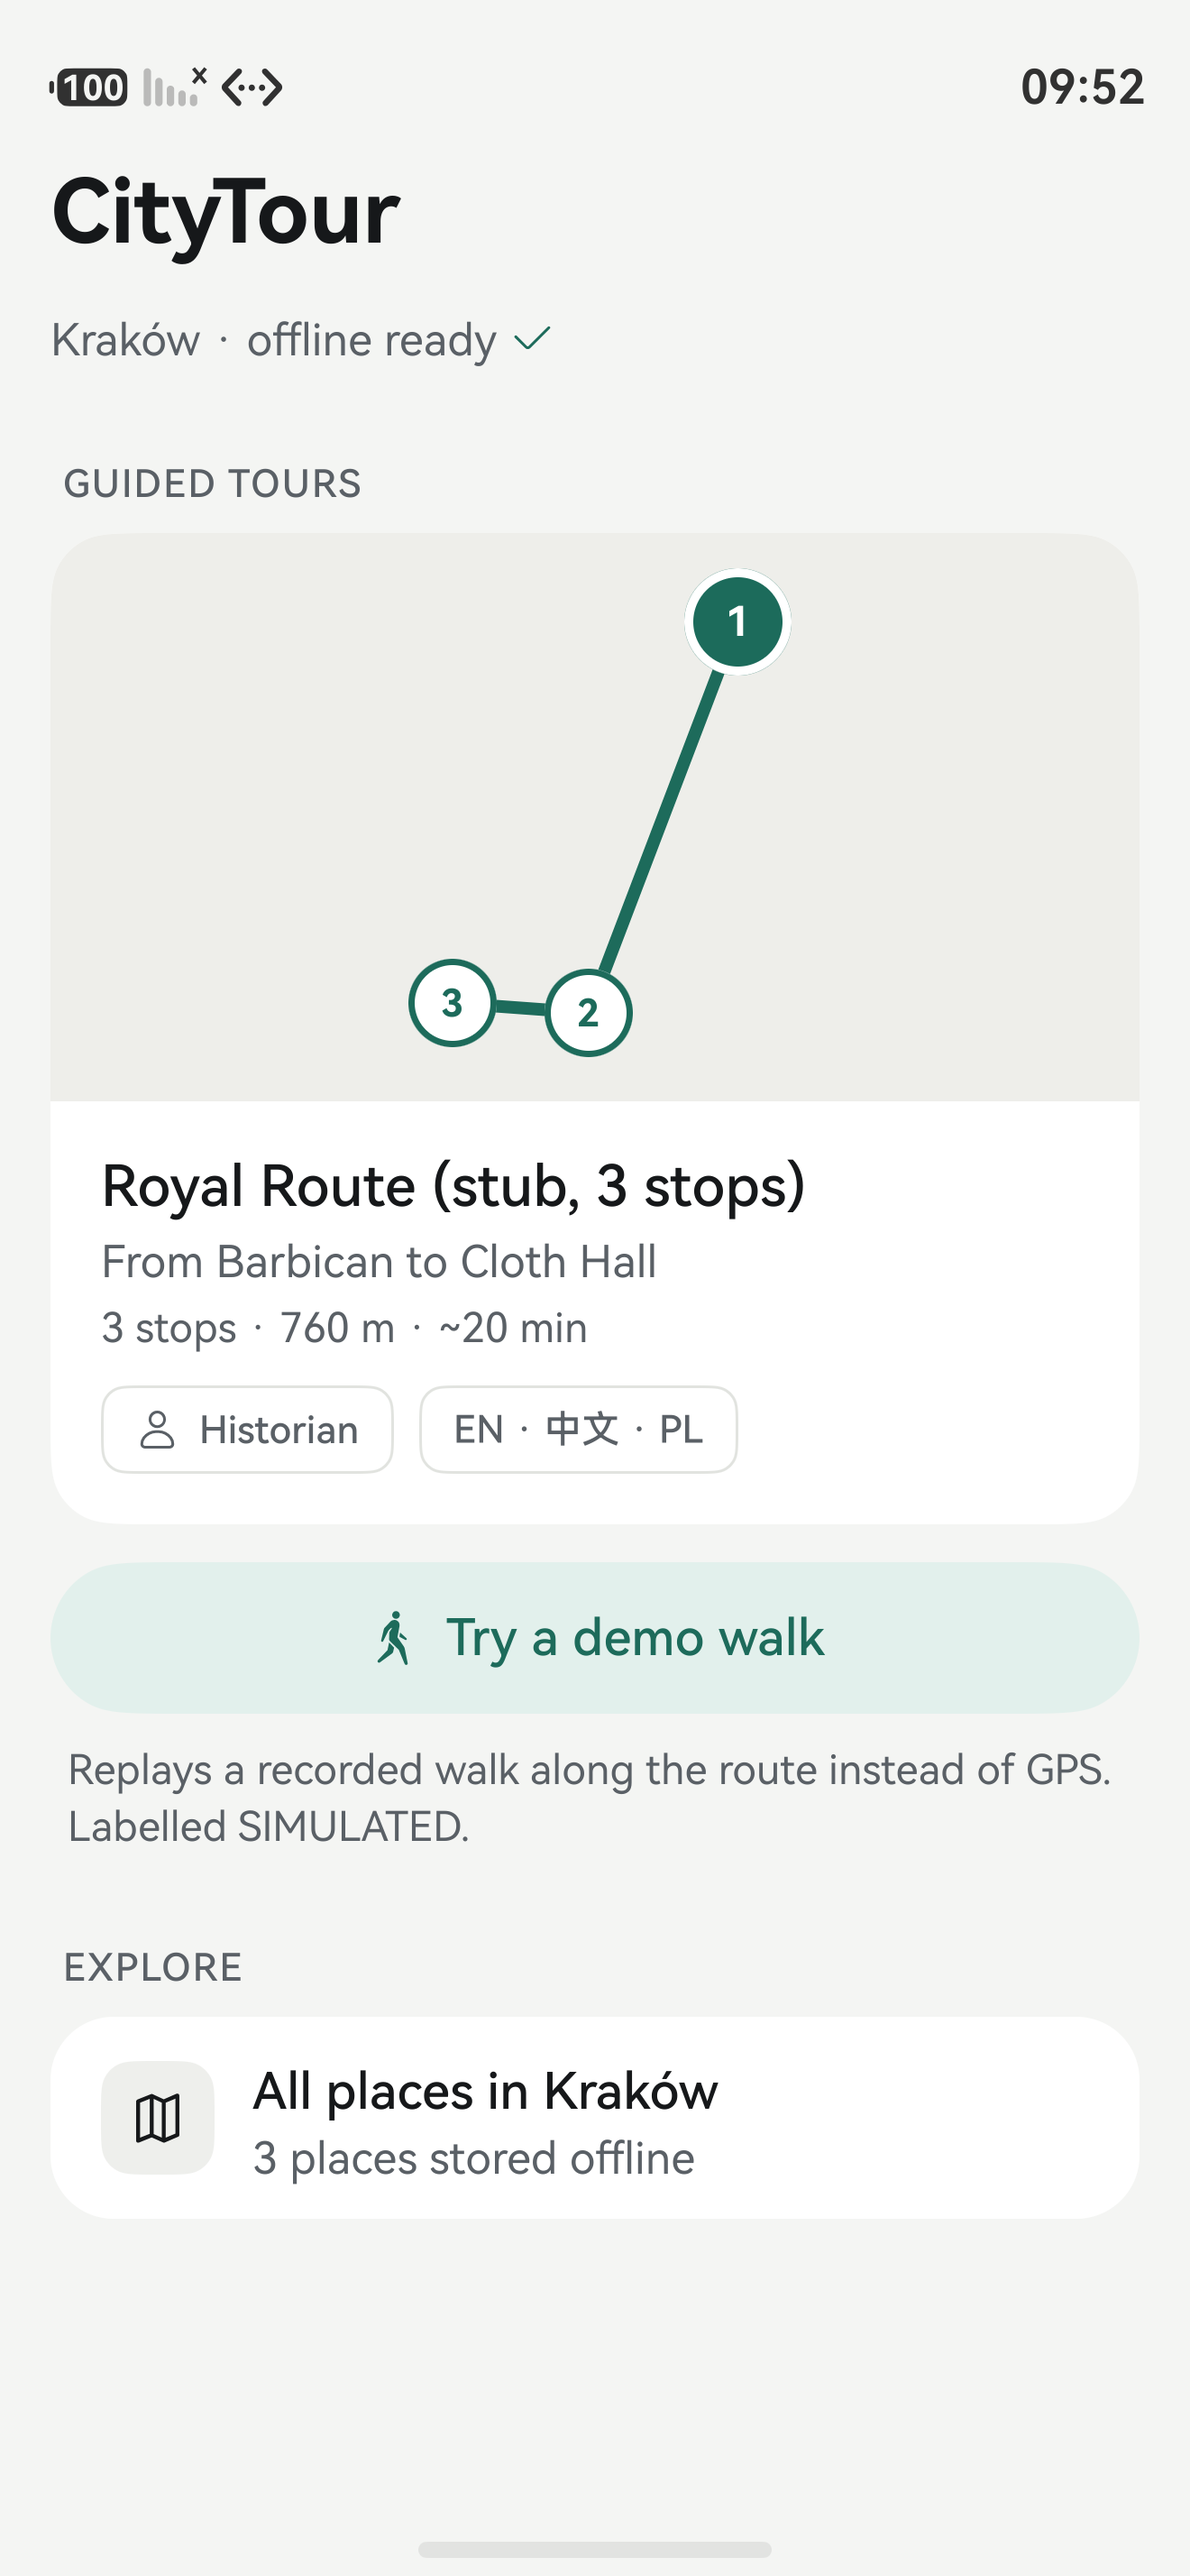
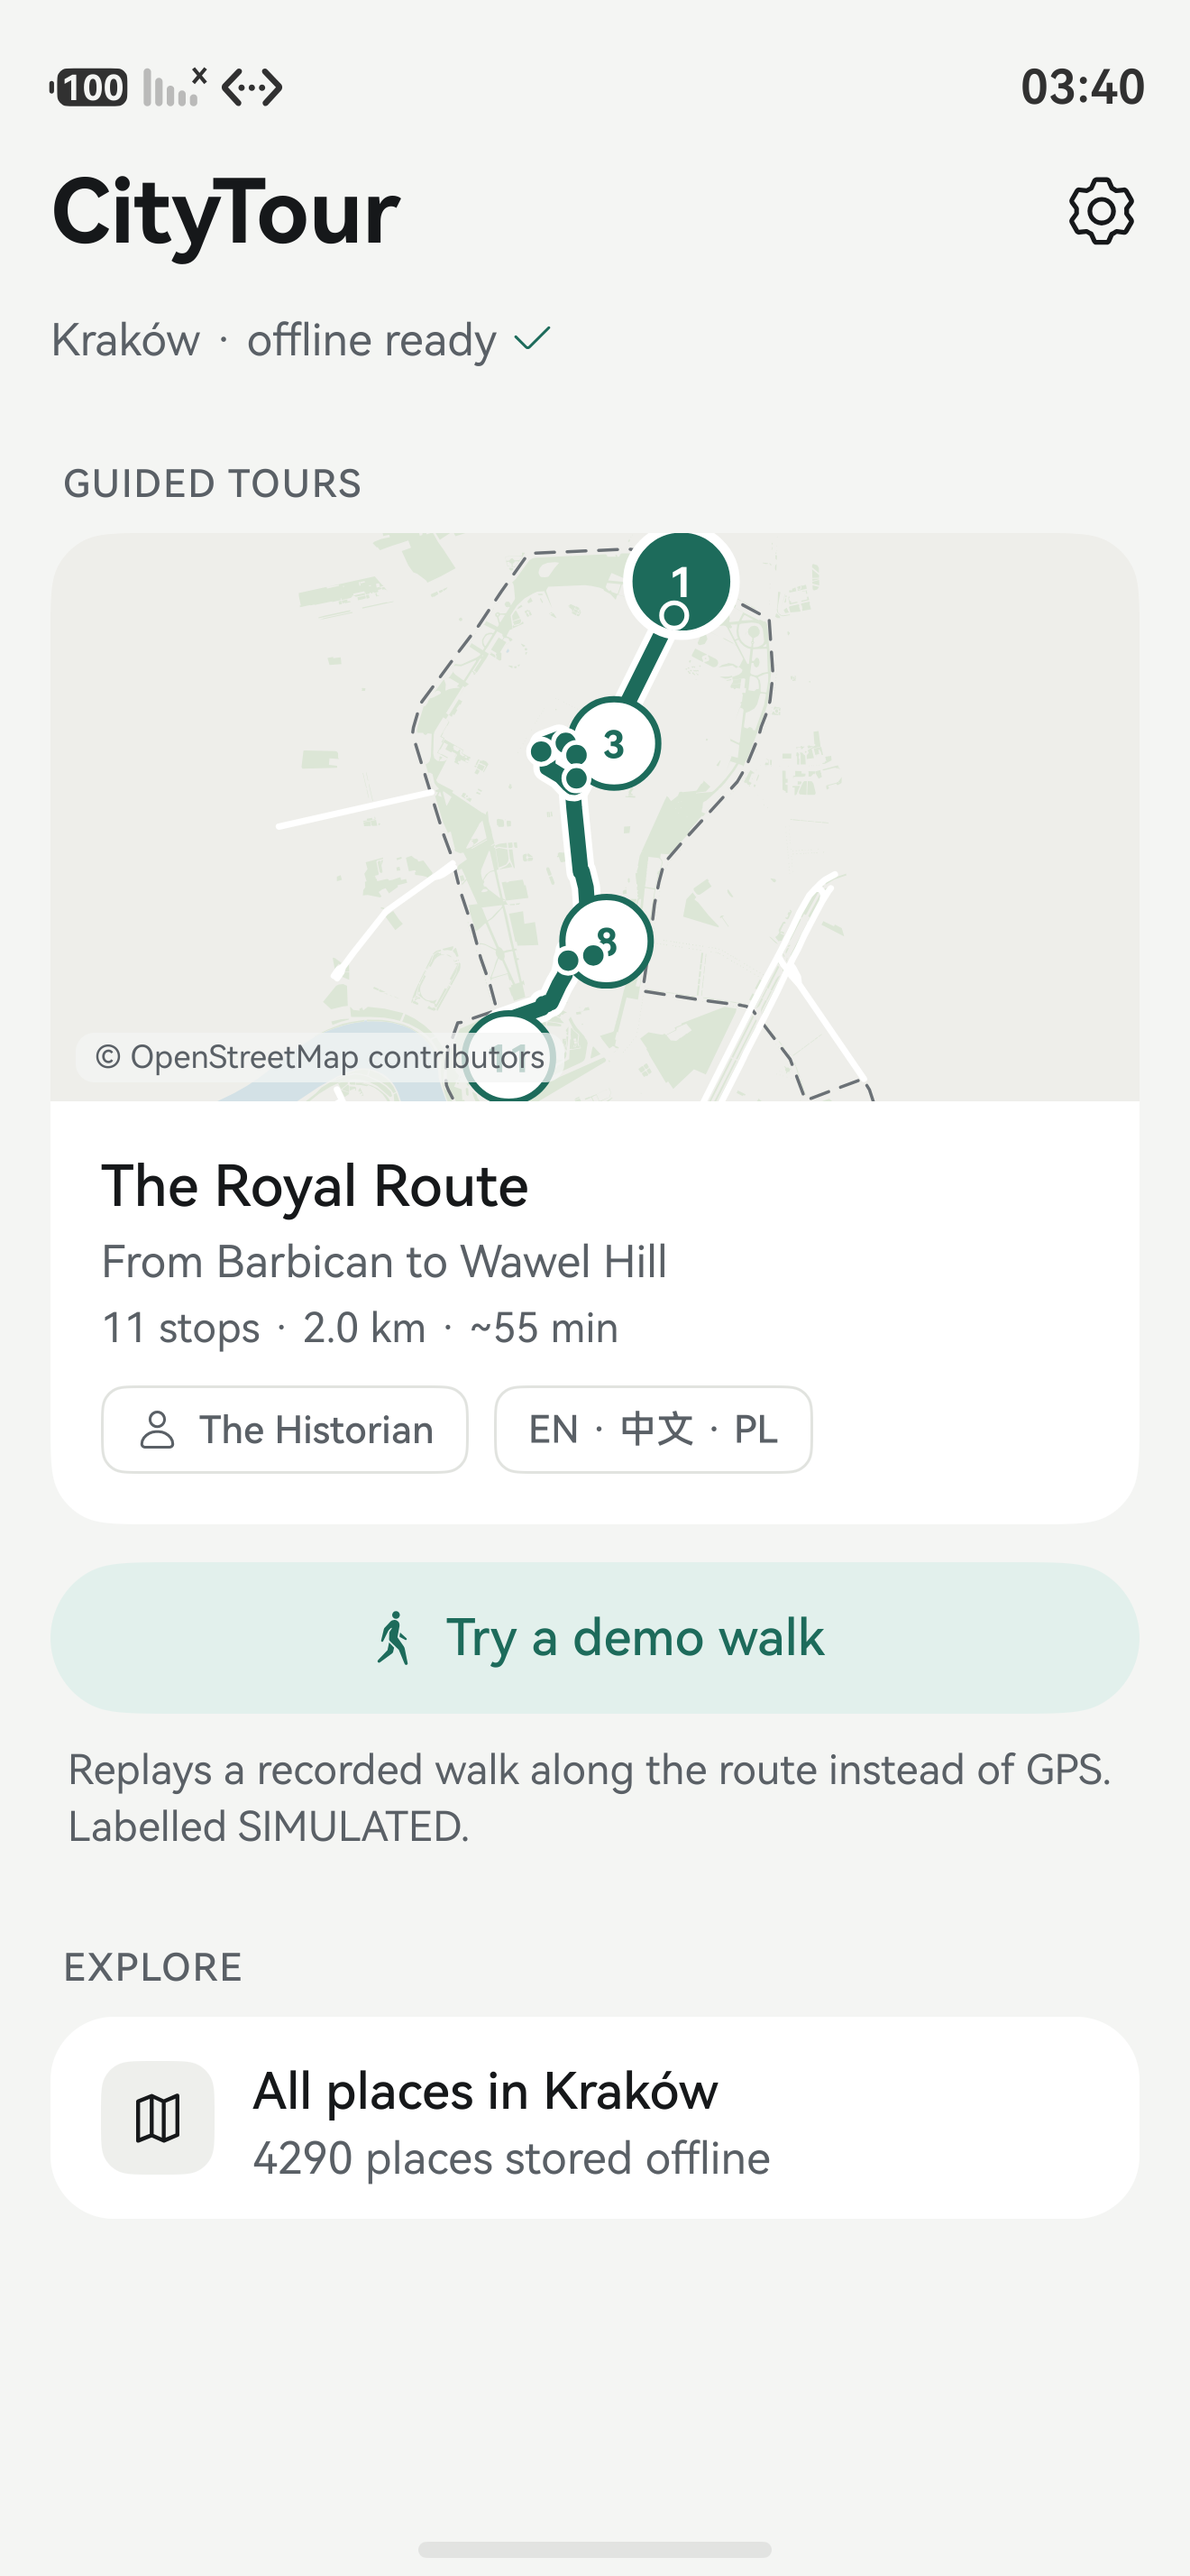
S1 (B): README Screenshots, Data sources and licences, Known limitations; ATTRIBUTION per source
- Screenshots table (Home, Tour detail, Route ready, Now Walking heading/at stop, Place,
  lock screen, Settings, About, Polish and Chinese UI). Home, Tour detail, Route ready and
  both Now Walking images retaken on the Pura 90 emulator: the old ones showed the
  3-stop stub pack.
- Data sources table with use, retrieval date and licence per source (Wikidata CC0,
  Wikipedia CC BY-SA, OSM/OSRM ODbL, Kraków ArcGIS unverified, ElevenLabs), linking
  data/raw/SOURCES.md, sources.json and the narration tier counts from validation-report.json.
- Known limitations: one city/tour, emulator GPS fixed, voices, AI-drafted content,
  sparse zh sources, ArcGIS licence, no vibration motor.
- data/ATTRIBUTION.md: one entry per data source + the AI-drafted text section.

diff --git a/AI_WORKFLOW.md b/AI_WORKFLOW.md
@@ -96,3 +96,4 @@ Complete this section only if AI is part of the product itself; otherwise write 
 | 2026-10-03 | Claude Code (Opus 5.5) subagent + `deveco-cli` skill | X2 (#37): mid-tour story language switch EN / Polski / 中文 at the next sentence boundary | Contract `TourControl.setStoryLang(lang)` (+ `LANG_SWITCH` log code; scripted stand-in logs only); pure `core/tour/LangSwitch.ets` (sentence index remap of the unplayed part of a queued story, story found by matching the old narration as the item's tail, arrival lines regenerated when their count matches, count mismatch / no translation keeps the old language; menu helpers); `TourEngine.switchLang` (narration lookup, voice plan, label, stop names relocalized; rewritten sentences get new utterance ids so a parked old-language prefetch is never played; LANG_SWITCH + SET_MEDIA_META; a caption shown before a switch to voice finishes its reading time); `TourController.setStoryLang` (VoicePort.plan -> VOICE_PLAN, A13 clips re-applied, voice issues re-evaluated, re-prefetch of the next sentence); Now Walking ⋯ "Continue in <lang>" for the two other languages -> `SettingsViewModel.setStoryLang` (persisted Story language, which now also calls the live switch); string `walk_menu_lang` in base/en/pl/zh; README paragraph | `devecocli check arkts` clean; `scripts/test.sh` PASS (11 new LangSwitch cases: pure mapping and edge cases, engine mid-story EN->zh, paused, between stories, voice->text Polish, text->voice, partial coverage; 1 TourController case: voice plan + label + AVSession meta + prefetch id used + caption); `devecocli build` OK. Not verified by the agent (user testing on the emulator by hand): the switch on the emulator/device with real clips and TTS, the menu rendering, lock-screen metadata, background task. |
 | 2026-10-03 | Claude Code (Opus 5.5) subagent + `deveco-cli` skill | A13 phase 3 (fix/studio-voice-system): user saw "Studio voice" (chip + AVSession artist) while the zh fallback voice read the welcome; wants George for every line possible | Label honesty: `TourController` keeps the label of the voice heard last, updated on `UTTERANCE_STARTED` only (text sentences keep it), used for the snapshot (Now Walking chip, B12 HUD) and re-sent to the AVSession artist (`NARR_AUDIO event=voice_label`); before, the tour plan label (PRERENDERED) showed between sentences and was the only label AVSession ever got. New `scripts/voice/system-lines.mjs` (Node port of the Phrases/Guidance templates and LegTracker cue rules) enumerates every finite non-story sentence for the Royal Route in en/pl/zh (welcome with the real title, finish, GPS lost, off-route, replan, arrival + look lines per direction, A9 prepare/now/then/continue cues of all 110 pack legs); `render-elevenlabs.mjs` renders them by default into `audio/<lang>/_<group>/` (`--system-only`, `--no-system`, `--system-groups`, `--nav-legs`; scope-aware prune). `ClipIndex.hasLang` ignores system clips. | Exactness guarantee: `--write-golden` writes `entry/src/test/fixtures/SystemLinesGolden.ets` (2271 cases); `SystemLines.test.ets` runs the real ArkTS functions on each and compares text + SHA-256 (a deliberately broken golden line was seen to fail); `system-lines.test.mjs` fails on a stale golden. New TourController/ClipSelection/render tests; `devecocli check arkts`, `scripts/test.sh`, `devecocli build` pass. No API call made (dry run only; the lead renders). Emulator not used (user testing by hand), so the label change on device is unverified. Lesson: a label derived from the plan rather than the audio path lies exactly when the fallback is in use. |
 | 2026-10-04 | Claude Code (Opus 5.5) + `deveco-cli` skill | B11 (#26): Tour summary (DESIGN §3.10) | Pure `core/tour/TourSummary.ets`: `TourTimer` (start/end/time at stops/stories seen, since `EngineSnapshot` has no duration), `routeWalkedM`, `buildSummary` (heard vs still to see with distance from the last position). `SummaryViewModel` (app-lifetime recorder started in Index, `TOUR_SUMMARY` log line) and `SummaryPage` (map of the walked route, date via `Intl.DateTimeFormat`, SIMULATED pill + note, stat trio, You heard → Place detail, Still to see, Sources, Start again → Tour detail); Now Walking hands over on FINISHED/ABORTED. User decisions: the Demo walk's total is a walking-pace time (route metres at 1.3 m/s + real time at stops); Start again opens Tour detail; "walked" is the route length, not the engine's `walkedM`. | `TourSummary.test.ets` (12 cases); `devecocli check arkts`, `scripts/test.sh`, `devecocli build` pass. On the Pura 90 emulator the agent ran the x8 demo walk: "Tour complete" 11/11 summary appeared automatically (screenshot), and an ended-early run gave "Tour ended" 3/11 with Still to see distances; Start again opened Tour detail. The emulator runs found three bugs that the unit tests missed. (1) The engine's `walkedM` counts GPS jitter at stops (7.3 km for 2 km); the summary now uses the route length and logs `engineWalkedM`. (2) An appfreeze (THREAD_BLOCK_6S) in `MapRenderer.buildPath` when the summary's map opened; Person A fixed the same freeze on main in parallel, so the agent's own fix was dropped in the rebase. (3) A stop ended one second after arrival was listed as heard; it now needs its story in `nowPlaying`. That last fix and the light/dark look are not re-verified on the emulator; Polish/Chinese for the one new a11y string are AI-drafted. |
+| 2026-10-04 | Claude Code (Opus 5.5) + `deveco-cli` skill | S1 (#30), Person B's docs: README Screenshots, Data sources and licences, Known limitations; `data/ATTRIBUTION.md` | Facts taken from `data/raw/SOURCES.md`, the pack's `sources.json` and `validation-report.json` (place and narration counts per tier and language), and the README's existing voice notes. The agent saw that five README screenshots still showed the early 3-stop stub pack, retook Home, Tour detail and Route ready on the Pura 90 emulator, and reused tonight's Now Walking captures from the demo walk. | Every relative link in README and ATTRIBUTION checked to exist (script). Screenshots viewed by the agent before use. GitHub rendering of the image tables not checked. |

diff --git a/README.md b/README.md
@@ -40,6 +40,51 @@ The Polish and Chinese UI strings were **machine-drafted by an AI agent** from t
 
 Story languages are separate from the UI language. They come from the offline pack: see [Data pipeline](#data-pipeline).
 
+## Screenshots
+
+Taken on the Pura 90 emulator (API 24 image, `devecocli ui screenshot`). The amber **SIMULATED** pill marks the Demo walk.
+
+| Home | Tour detail | Route ready |
+|---|---|---|
+| <img src="docs/img/home.png" width="220" alt="Home: the Royal Route card and Try a demo walk"> | <img src="docs/img/tour-detail.png" width="220" alt="Tour detail: route map, stats, guide and stop list"> | <img src="docs/img/route-ready.png" width="220" alt="Route ready: optimised order and distance"> |
+
+| Now Walking (heading) | Now Walking (at a stop) | Place detail |
+|---|---|---|
+| <img src="docs/img/walk-heading.png" width="220" alt="Now Walking: next stop, distance, Look cue, directions"> | <img src="docs/img/walk-at-stop.png" width="220" alt="Now Walking at a stop: the story being read"> | <img src="docs/img/place.png" width="220" alt="Place detail with sources"> |
+
+| Lock screen (AVSession) | Settings | About & licences |
+|---|---|---|
+| <img src="docs/img/lockscreen.png" width="220" alt="Lock screen playback card"> | <img src="docs/img/settings.png" width="220" alt="Settings"> | <img src="docs/img/about.png" width="220" alt="About and licences"> |
+
+| Polish UI | Chinese UI |
+|---|---|
+| <img src="docs/img/home-pl.png" width="220" alt="Home in Polish"> | <img src="docs/img/home-zh.png" width="220" alt="Home in Chinese"> |
+
+## Data sources and licences
+
+All data is fetched once at build time, committed under [`data/raw/`](data/raw/) and compiled into the offline pack (see [Data pipeline](#data-pipeline)). The app makes no network call for content. Full provenance (endpoints, queries, retrieval times, record counts, what each layer contains) is in [`data/raw/SOURCES.md`](data/raw/SOURCES.md); per-source records ship in the pack as [`sources.json`](entry/src/main/resources/rawfile/packs/krakow/sources.json), and the app shows them in **Settings › About › Sources and licences** and per place in **Place detail › Sources**.
+
+| Source | Used for | Retrieved | Licence |
+|---|---|---|---|
+| [Wikidata](https://www.wikidata.org) (SPARQL, items located in Kraków) | 4,290 places: coordinates, names en/pl/zh, type, heritage status, dating | 2026-10-03 | CC0 1.0 |
+| [Wikipedia](https://www.wikipedia.org) en / pl / zh (REST summaries, article extracts) | Place summaries (218 en, 297 pl, 71 zh) and the source text of the 11 tour stories | 2026-10-03 | CC BY-SA 4.0 (attributed per text in the app) |
+| [OpenStreetMap](https://www.openstreetmap.org/copyright) (API 0.6, Old Town tiles) | Offline vector map (streets, buildings, water, green) | 2026-10-03 | ODbL 1.0, "© OpenStreetMap contributors" shown on every map |
+| [OSRM](https://routing.openstreetmap.de) foot profile (FOSSGIS server) | 110 walking legs between the tour stops (distances, times, turn-by-turn steps) | 2026-10-03 | ODbL 1.0 (derived from OSM) |
+| City of Kraków ArcGIS (Zintegrowana Platforma GIS: heritage register, UNESCO zone) | Register facts and the UNESCO World Heritage outline | 2026-10-03 | **Unverified**: no published terms; used for coordinates and register facts only, cited with service URL and date ([docs/RISKS.md](docs/RISKS.md) T14) |
+| ElevenLabs (`eleven_multilingual_v2`, voice "George") | Pre-rendered studio-voice clips of the stories and fixed lines | build time | AI-generated audio, see [`data/ATTRIBUTION.md`](data/ATTRIBUTION.md) |
+
+Narration tiers in the pack (from [`validation-report.json`](entry/src/main/resources/rawfile/packs/krakow/validation-report.json)): every place has a teaser in en/pl/zh. 25 per language are **grounded-AI** Historian scripts for the 11 tour stops (drafted by Claude from the cited Wikipedia text, labelled "AI-drafted, not yet reviewed" in the app); the rest are verbatim Wikipedia extracts or a labelled name-only template. All 12,912 narrations pass the validator.
+
+## Known limitations
+
+- **One city, one tour.** The pack covers Kraków (4,290 places on the map data, the Old Town map); there is one guided tour, the Royal Route (11 stops).
+- **The emulator cannot move.** Its GPS is a fixed point and can't be driven from the command line, so tours on the emulator use the SIMULATED Demo walk. The real Location Kit path is wired in and selectable in Settings.
+- **Voices on the emulator.** The emulator has no English or Polish system voice: English is read by the Chinese voice (labelled "Fallback voice"), and Polish lines without a studio clip are shown as text. Stories with studio clips play in all three languages.
+- **AI-drafted content, not yet reviewed.** The Historian stories (English, then machine-translated to Polish and Chinese) and the Polish and Chinese UI strings were drafted by AI and have not been checked by a historian or native speakers. The app labels unreviewed stories.
+- **Sparse Chinese sources.** Only 71 places have a Chinese Wikipedia summary; most Chinese place texts are the name-only template.
+- **Kraków ArcGIS licence unverified** (see the table above).
+- **No vibration on the emulator.** Arrival haptics are called and logged, but the emulator has no motor (`14600101`, no crash).
+
 ## Requirements (tested versions)
 
 | Tool | Version |

diff --git a/data/ATTRIBUTION.md b/data/ATTRIBUTION.md
@@ -12,4 +12,15 @@ Narration voice generated with ElevenLabs (eleven_multilingual_v2, voice 'George
 
 ## Map and place data
 
-See the in-app **About & licences** page: © OpenStreetMap contributors (ODbL), Wikipedia (CC BY-SA), Wikidata (CC0), Kraków open data (ArcGIS), OSRM routes over OSM data.
+Shown in the app under **Settings › About › Sources and licences**, and per place under **Place detail › Sources**. Full provenance (endpoints, queries, retrieval times, counts) is in [`raw/SOURCES.md`](raw/SOURCES.md); the pack ships one record per source in `entry/src/main/resources/rawfile/packs/krakow/sources.json`. All snapshots were retrieved on 2026-10-03.
+
+- **OpenStreetMap**: © OpenStreetMap contributors, [ODbL 1.0](https://www.openstreetmap.org/copyright). The offline Old Town map (`map-detail.json`); the credit is drawn on every map in the app.
+- **OSRM** (foot profile, FOSSGIS server `routing.openstreetmap.de`): the 110 walking legs between the tour stops (distances, durations, turn-by-turn steps). Derived from OSM data, ODbL 1.0.
+- **Wikidata**: [CC0 1.0](https://creativecommons.org/publicdomain/zero/1.0/). The 4,290 places: coordinates, names in en/pl/zh, type, heritage status, dating. Credited even though CC0 requires no attribution.
+- **Wikipedia** (en, pl, zh): [CC BY-SA 4.0](https://creativecommons.org/licenses/by-sa/4.0/). Place summaries are shown verbatim with the article title and link; the 11 tour-stop articles are the cited source of the Historian scripts. Each text names its article in Place detail › Sources.
+- **City of Kraków (Gmina Miejska Kraków), Zintegrowana Platforma GIS** (ArcGIS feature services: municipal heritage register `EOZ_Zabytki`, `otwarte_dane_eoz`, UNESCO zone `UNESCO_4f365`): **licence unverified**. No terms are published for these items (checked 2026-10-03), so the data is used only for coordinates, register facts and the UNESCO outline, cited with the service URL and retrieval date (docs/RISKS.md T14).
+
+## AI-drafted text
+
+- Historian stop scripts (teaser, full, deep) for the 11 Royal Route stops: drafted by Claude (Anthropic) from the cited Wikipedia text with the prompt in `scripts/pack/prompts/`, validated by `scripts/pack/80-validate.mjs`, and labelled "AI-drafted, not yet reviewed" in the app until a person approves them (`scripts/pack/review/`).
+- Polish and Chinese versions of those scripts and of the UI strings are machine translations by the same model and have not been checked by native speakers.
